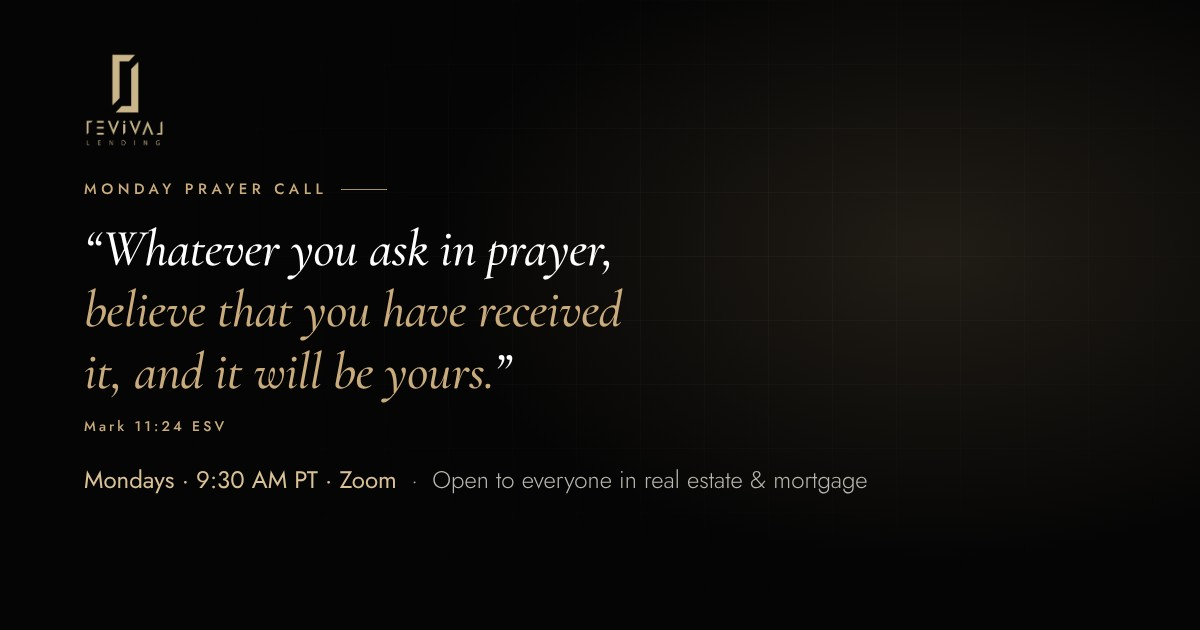
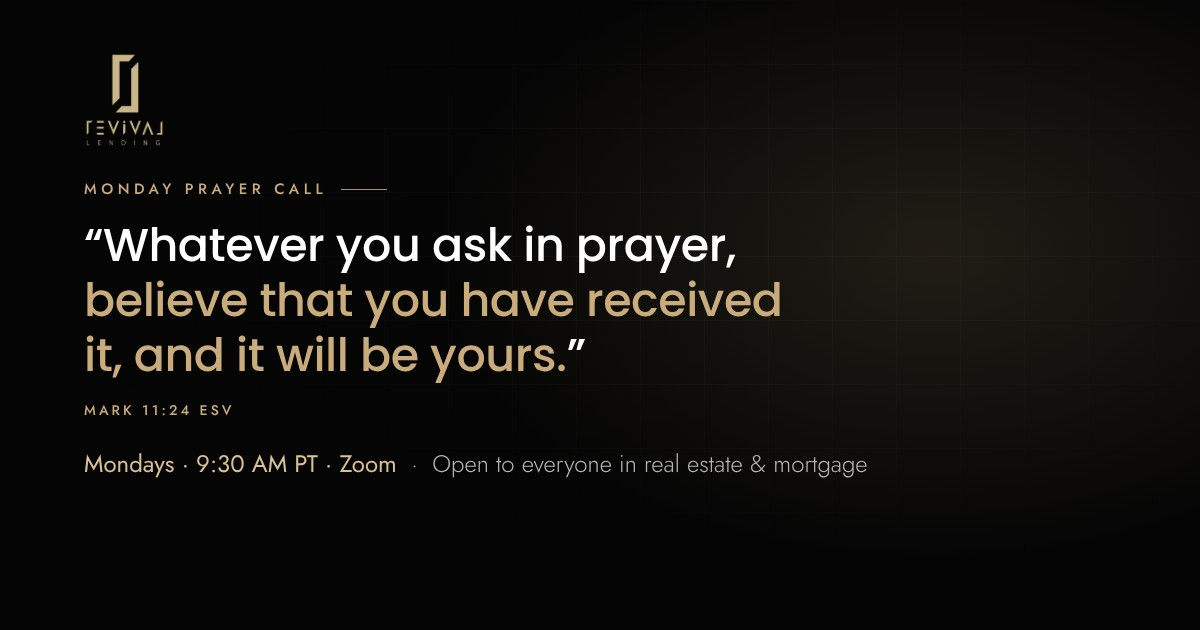
Set Mark 11:24 hero headline in the standard heading font
Claude-Session: https://claude.ai/code/session_014K89563gWLszdZvadxZsab

diff --git a/assets/css/prayer.css b/assets/css/prayer.css
@@ -371,12 +371,8 @@
 /* ---------- Scripture headline + ESV small caps ---------- */
 .sc { font-variant: small-caps; }
 .prayer-hero h1.verse-title {
-  font-family: var(--font-quote);
-  font-style: italic;
-  font-weight: 500;
-  font-size: clamp(34px, 4.6vw, 58px);
-  line-height: 1.18;
-  letter-spacing: 0;
+  font-size: clamp(30px, 4.2vw, 52px);
+  line-height: 1.2;
 }
 .verse-title-cite {
   display: block;
